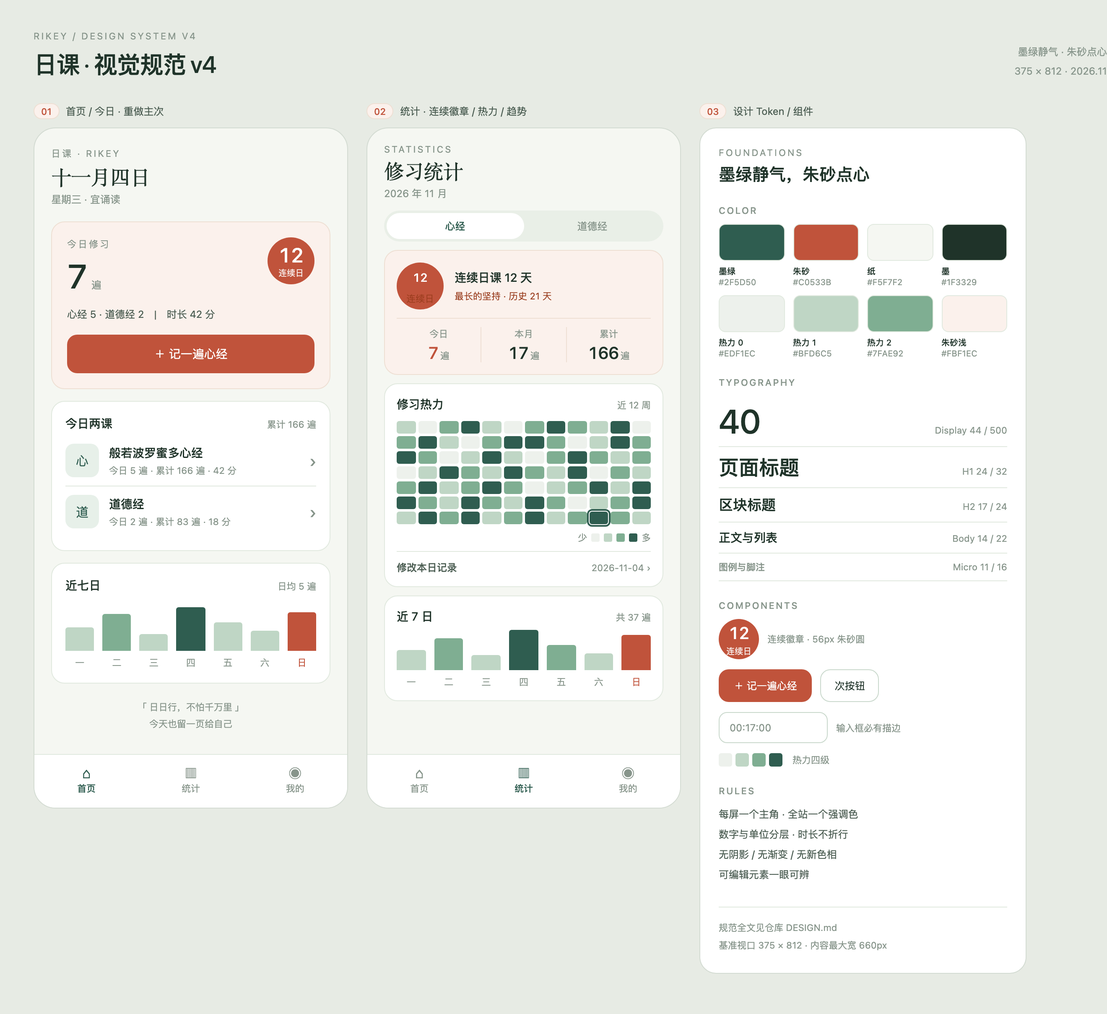
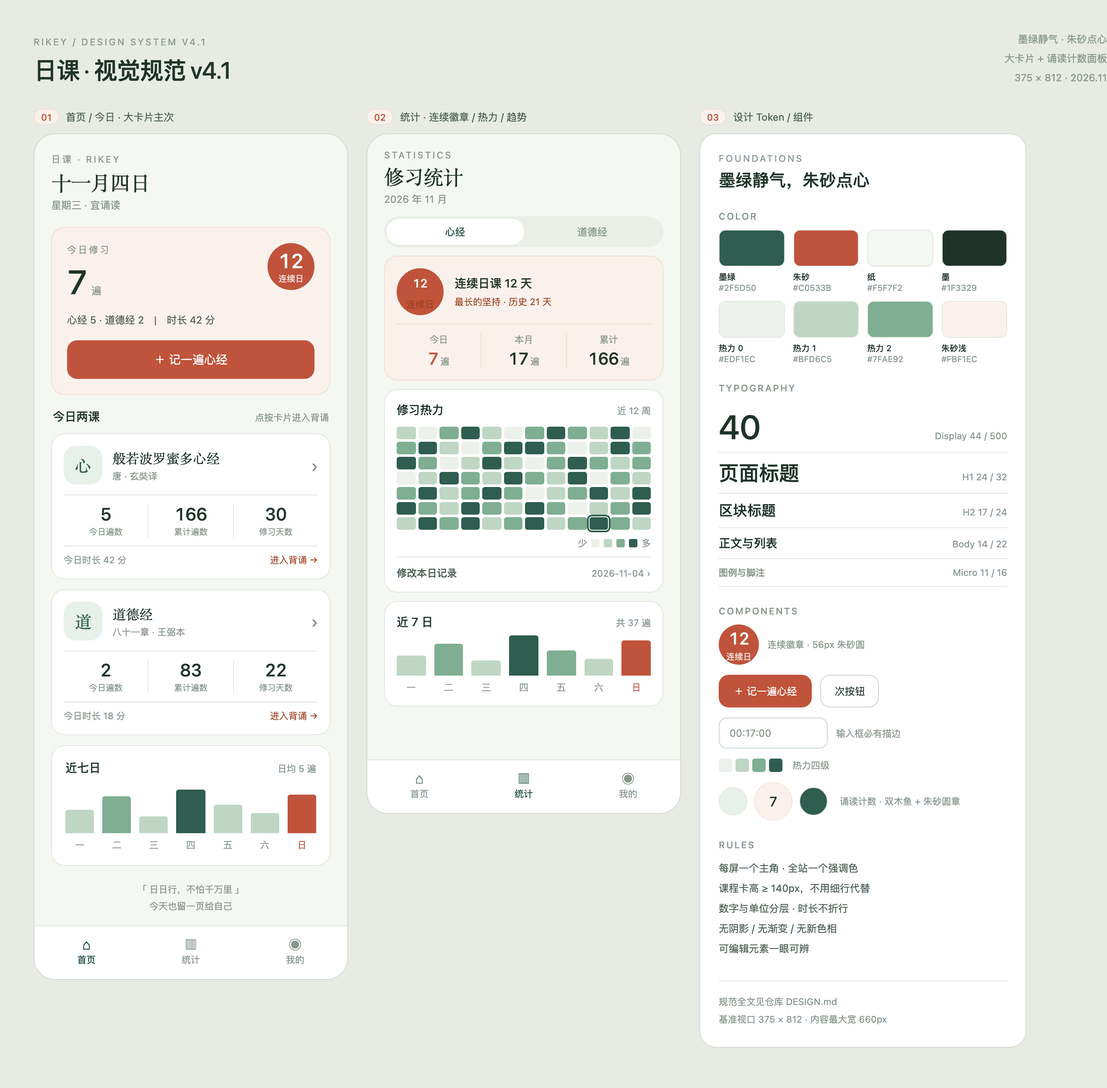
feat(v4.1): 恢复首页/选择页大卡片并重绘开始后的诵读计数面板

diff --git a/styles.css b/styles.css
@@ -587,3 +587,88 @@ button,input,summary { font-family:inherit; }
 @media (prefers-reduced-motion:reduce) {
   .hero-cta,.view,.woodfish { transition:none !important; animation:none !important; }
 }
+
+/* ===== v4.1 · 大卡片 + 诵读计数面板 ===== */
+.section-head { display:flex; align-items:baseline; justify-content:space-between; gap:8px; margin:18px 2px 10px; }
+.section-head h2 { font:500 15px/20px var(--font-classic); margin:0; }
+.section-head span { font-size:11px; color:var(--muted); }
+
+/* 首页两课 / 选择背诵：恢复大卡片 */
+.course-row.course-card { display:block; width:100%; min-height:0; padding:16px; margin:0 0 12px; border:1px solid var(--line); border-radius:16px; background:var(--card); text-align:left; color:var(--ink); cursor:pointer; transition:transform .14s ease-out,border-color .14s ease-out; }
+.course-row.course-card:first-of-type { border-top:1px solid var(--line); padding-top:16px; }
+.course-row.course-card:active { transform:scale(.99); border-color:var(--green); }
+.card-top { display:flex; align-items:center; gap:12px; }
+.course-seal { width:48px; height:48px; flex:none; border-radius:14px; background:var(--green-soft); color:var(--green); font:500 21px/1 var(--font-classic); display:grid; place-items:center; }
+.course-title { flex:1; min-width:0; }
+.course-title b { display:block; font:500 17px/22px var(--font-classic); white-space:nowrap; overflow:hidden; text-overflow:ellipsis; }
+.course-title small { display:block; font-size:11px; color:var(--muted); margin-top:3px; }
+.course-arrow { font-size:22px; color:var(--muted); flex:none; }
+.course-stats { display:flex; margin:14px 0 10px; padding:12px 0; border-top:1px solid var(--line); border-bottom:1px solid var(--line); }
+.course-stats > span { flex:1; min-width:0; text-align:center; border-right:1px solid var(--line); }
+.course-stats > span:last-child { border-right:0; }
+.course-stats b { display:block; font-size:23px; line-height:27px; font-weight:500; color:var(--ink); font-variant-numeric:tabular-nums; }
+.course-stats small { display:block; font-size:10px; color:var(--muted); margin-top:3px; }
+.course-foot { display:flex; justify-content:space-between; align-items:center; font-size:11px; color:var(--muted); }
+.course-foot span:last-child { color:var(--cinnabar-ink); }
+
+.recite-choices { border-top:0; display:grid; gap:12px; }
+.recite-choice { display:flex; align-items:center; gap:12px; width:100%; min-height:104px; padding:16px; border:1px solid var(--line); border-bottom:1px solid var(--line); border-radius:16px; background:var(--card); text-align:left; cursor:pointer; transition:transform .14s ease-out,border-color .14s ease-out; }
+.recite-choice:active { transform:scale(.99); border-color:var(--green); }
+.recite-choice span { font:inherit; }
+.choice-seal { width:56px; height:56px; flex:none; border-radius:16px; background:var(--green-soft); color:var(--green); font:500 24px/1 var(--font-classic); display:grid; place-items:center; }
+.choice-body { flex:1; min-width:0; }
+.choice-body b { display:block; font:500 18px/24px var(--font-classic); color:var(--ink); }
+.choice-body small { display:block; font-size:11px; color:var(--muted); margin-top:4px; }
+.choice-meta { flex:none; text-align:right; }
+.choice-meta b { display:block; font-size:20px; font-weight:500; color:var(--ink); font-variant-numeric:tabular-nums; }
+.choice-meta small { display:block; font-size:10px; color:var(--muted); margin-top:2px; }
+.choice-arrow { font-size:20px; color:var(--muted); }
+.choice-note { text-align:center; font-size:11px; line-height:2; color:var(--muted); margin:26px 0 0; }
+
+/* 开始按钮 */
+.bottom-counter { flex-direction:column; gap:0; min-height:0; }
+.bottom-counter.waiting { padding:10px 0 12px; }
+.start-wrap { position:relative; width:88px; height:88px; display:grid; place-items:center; }
+.start-halo { position:absolute; inset:0; border-radius:50%; background:var(--cinnabar-soft); border:1px solid var(--cinnabar-line); animation:haloPulse 2.8s ease-in-out infinite; }
+.start-circle { position:relative; width:64px; height:64px; border:0; border-radius:50%; color:#fff; background:var(--cinnabar); font-size:15px; cursor:pointer; box-shadow:none; }
+.start-circle:active { transform:scale(.96); }
+.start-hint { font-size:11px; color:var(--muted); margin:10px 0 0; }
+@keyframes haloPulse { 0%,100% { transform:scale(1); opacity:1; } 50% { transform:scale(1.08); opacity:.62; } }
+
+/* 诵读计数面板 */
+.bottom-counter.running { align-items:stretch; padding:8px 0 4px; }
+.counter-head { display:flex; align-items:center; gap:7px; font-size:11px; color:var(--muted); margin-bottom:2px; }
+.live-dot { width:6px; height:6px; flex:none; border-radius:50%; background:var(--cinnabar); box-shadow:0 0 0 3px var(--cinnabar-soft); }
+.counter-hint { margin-left:auto; }
+.counter-stage { display:flex; align-items:center; justify-content:space-between; gap:6px; }
+.woodfish { position:relative; width:92px; height:96px; flex:none; border:0; padding:0; background:transparent; display:grid; place-items:center; cursor:pointer; touch-action:manipulation; }
+.woodfish .fish-disc { position:absolute; inset:2px 2px 12px; width:auto; height:auto; border:0; border-radius:50%; background:var(--green-soft); opacity:.5; }
+.woodfish img { position:relative; width:92px; height:88px; display:block; pointer-events:none; }
+.woodfish .fish-sign { position:absolute; right:0; bottom:12px; width:28px; height:28px; border-radius:50%; display:grid; place-items:center; background:var(--card); border:1px solid var(--line-strong); color:var(--green); font-size:17px; line-height:1; font-weight:400; pointer-events:none; }
+.fish-plus .fish-sign { background:var(--cinnabar); border-color:var(--cinnabar); color:#fff; }
+.woodfish .fish-tag { position:absolute; bottom:-2px; left:0; right:0; width:auto; height:auto; display:block; border:0; border-radius:0; background:transparent; text-align:center; font-size:10px; line-height:1.2; font-weight:400; color:var(--muted); pointer-events:none; }
+.woodfish .fish-pop { position:absolute; top:6px; right:auto; bottom:auto; left:50%; width:auto; height:auto; display:block; border:0; border-radius:0; background:transparent; transform:translateX(-50%); font-size:14px; font-weight:500; color:var(--cinnabar); opacity:0; pointer-events:none; }
+.fish-minus .fish-pop { color:var(--green); }
+.woodfish.is-tapped .fish-pop { animation:fishPop .46s ease-out; }
+.woodfish.is-tapped .fish-disc { animation:fishRipple .46s ease-out; }
+@keyframes fishPop { 0%{opacity:0;transform:translate(-50%,8px) scale(.8)} 35%{opacity:1} 100%{opacity:0;transform:translate(-50%,-16px) scale(1.1)} }
+@keyframes fishRipple { 0%{opacity:.6;transform:scale(.86)} 100%{opacity:.5;transform:scale(1.18)} }
+.count-seal { position:relative; width:92px; height:92px; flex:none; border-radius:50%; background:var(--cinnabar-soft); border:1px solid var(--cinnabar-line); display:flex; flex-direction:column; align-items:center; justify-content:center; }
+.seal-ring { position:absolute; inset:5px; border-radius:50%; border:1px dashed var(--cinnabar-line); }
+.count-seal small { font-size:10px; color:var(--cinnabar-ink); }
+.count-seal b { display:block; font-size:32px; line-height:36px; font-weight:500; color:var(--ink); font-variant-numeric:tabular-nums; }
+.count-seal b.bump { animation:countBump .3s ease-out; }
+.count-seal em { font-size:10px; font-style:normal; color:var(--muted); }
+@keyframes countBump { 0%{transform:scale(1)} 45%{transform:scale(1.18)} 100%{transform:scale(1)} }
+.recite-footer { padding:8px 16px calc(10px + env(safe-area-inset-bottom,0px)); }
+.app-shell.immersive { padding-bottom:170px; }
+
+@media (max-width:360px) {
+  .woodfish { width:80px; }
+  .woodfish img { width:80px; height:78px; }
+  .count-seal { width:84px; height:84px; }
+  .count-seal b { font-size:28px; }
+}
+@media (prefers-reduced-motion:reduce) {
+  .start-halo,.woodfish.is-tapped .fish-pop,.woodfish.is-tapped .fish-disc,.count-seal b.bump { animation:none !important; }
+}

diff --git a/app.js b/app.js
@@ -158,7 +158,12 @@
     const msToday = (Number(today.readingMs?.heart) || 0) + (Number(today.readingMs?.dao) || 0);
     const now = new Date(), weekNames = ['日', '一', '二', '三', '四', '五', '六'];
     const streak = calcStreak('all'), trend = trendBars('all', 7);
-    const course = (name, book, key, mark, count) => `<button class="course-row" data-action="open-recitation" data-book="${book}"><span class="course-mark">${mark}</span><span class="course-info"><b>${name}</b><small>今日 ${count} 遍 · 累计 ${sum(key)} 遍 · ${formatDurationShort(Number(today.readingMs?.[book]) || 0)}</small></span><span class="course-arrow">›</span></button>`;
+    const practicedDays = key => Object.values(state.days).filter(d => Number(d[key]) > 0).length;
+    const course = (name, book, key, mark, count, sub) => `<button class="course-row course-card" data-action="open-recitation" data-book="${book}">
+        <span class="card-top"><span class="course-seal">${mark}</span><span class="course-title"><b>${name}</b><small>${sub}</small></span><span class="course-arrow">›</span></span>
+        <span class="course-stats"><span><b>${count}</b><small>今日遍数</small></span><span><b>${sum(key)}</b><small>累计遍数</small></span><span><b>${practicedDays(key)}</b><small>修习天数</small></span></span>
+        <span class="course-foot"><span>今日时长 ${formatDurationShort(Number(today.readingMs?.[book]) || 0)}</span><span>进入背诵 →</span></span>
+      </button>`;
     document.getElementById('view-today').innerHTML = `<header class="page-head">
         <span class="eyebrow">日课 · RIKEY</span>
         <h1 id="today-title">${now.getMonth() + 1} 月 ${now.getDate()} 日</h1>
@@ -176,11 +181,9 @@
         <button class="hero-cta" data-action="count" data-key="xinCount">＋ 记一遍心经</button>
         <p class="hero-foot">历史最佳 ${calcBest('all')} 天 · 累计 ${sum('xinCount') + sum('daoCount')} 遍</p>
       </section>
-      <section class="ds-card">
-        <div class="card-head"><h2>今日两课</h2><span>点按进入背诵</span></div>
-        ${course('般若波罗蜜多心经', 'heart', 'xinCount', '心', heart)}
-        ${course('道德经', 'dao', 'daoCount', '道', dao)}
-      </section>
+      <div class="section-head"><h2>今日两课</h2><span>点按卡片进入背诵</span></div>
+      ${course('般若波罗蜜多心经', 'heart', 'xinCount', '心', heart, '唐 · 玄奘译')}
+      ${course('道德经', 'dao', 'daoCount', '道', dao, '八十一章 · 王弼本')}
       <section class="ds-card">
         <div class="card-head"><h2>近七日</h2><span>日均 ${trend.avg} 遍 · 共 ${trend.total} 遍</span></div>
         <div class="trend-bars">${trend.bars}</div>
@@ -244,15 +247,30 @@
     if(!on) { document.activeElement?.blur(); showToast('排版已保存'); }
   }
   function reciteFooter(countKey) {
-    if (!timerStart) return `<div class="bottom-counter waiting"><button class="start-circle" data-action="start-timer">开始</button></div>`;
-    return `<div class="bottom-counter running"><button class="woodfish fish-minus" data-action="undo" data-key="${countKey}" aria-label="减少一遍" title="减少一遍"><img src="assets/woodfish-minus.svg?v=9" alt=""></button><div class="center-count"><span>今日</span><b id="recite-today-count">${day()[countKey]}</b><small id="recite-total-count">累计 ${sum(countKey)}</small></div><button class="woodfish fish-plus" data-action="count" data-key="${countKey}" aria-label="增加一遍" title="增加一遍"><img src="assets/woodfish-plus.svg?v=9" alt=""></button></div>`;
+    if (!timerStart) return `<div class="bottom-counter waiting">
+        <div class="start-wrap"><span class="start-halo"></span><button class="start-circle" data-action="start-timer">开始</button></div>
+        <p class="start-hint">开始诵读 · 自动计时，点木鱼记一遍</p>
+      </div>`;
+    const fish = (cls, action, label, sign, pop, file, aria) => `<button class="woodfish ${cls}" data-action="${action}" data-key="${countKey}" aria-label="${aria}" title="${aria}">
+        <span class="fish-disc"></span><img src="assets/${file}?v=10" alt="">
+        <span class="fish-sign">${sign}</span><span class="fish-tag">${label}</span><span class="fish-pop">${pop}</span>
+      </button>`;
+    return `<div class="bottom-counter running">
+        <div class="counter-head"><i class="live-dot"></i><span>诵读中</span><span class="counter-hint">轻点木鱼记一遍</span></div>
+        <div class="counter-stage">
+          ${fish('fish-minus','undo','撤销','−','−1','woodfish-minus.svg','减少一遍')}
+          <div class="count-seal"><span class="seal-ring"></span><small>今日</small><b id="recite-today-count">${day()[countKey]}</b><em id="recite-total-count">累计 ${sum(countKey)}</em></div>
+          ${fish('fish-plus','count','记一遍','＋','＋1','woodfish-plus.svg','增加一遍')}
+        </div>
+      </div>`;
   }
   function renderRecite() {
     const node=document.getElementById('view-recite');
     const shell=document.querySelector('.app-shell');
     if (!reciteBook) {
       shell.classList.remove('immersive');
-      node.innerHTML=`<div class="page-intro"><h1 id="recite-title">选择背诵内容</h1></div><div class="recite-choices"><button class="recite-choice" data-action="open-recitation" data-book="dao"><span>《道德经》</span><small>累计 ${sum('daoCount')} 遍　→</small></button><button class="recite-choice" data-action="open-recitation" data-book="heart"><span>《心经》</span><small>累计 ${sum('xinCount')} 遍　→</small></button></div>`;
+      const choice = (book, name, seal, sub, key) => `<button class="recite-choice" data-action="open-recitation" data-book="${book}"><span class="choice-seal">${seal}</span><span class="choice-body"><b>${name}</b><small>${sub}</small></span><span class="choice-meta"><b>${sum(key)}</b><small>累计遍数</small></span><span class="choice-arrow">›</span></button>`;
+      node.innerHTML=`<div class="page-intro"><h1 id="recite-title">选择背诵内容</h1></div><div class="recite-choices">${choice('dao','《道德经》','道','八十一章 · 王弼本','daoCount')}${choice('heart','《心经》','心','唐 · 玄奘译','xinCount')}</div><p class="choice-note">诵读时自动计时 · 点木鱼记一遍<br>记录只保存在这台设备</p>`;
       return;
     }
     shell.classList.add('immersive');
@@ -280,7 +298,7 @@
   function updateReciteProgress(key) {
     const todayCount=document.getElementById('recite-today-count');
     const total=document.getElementById('recite-total-count');
-    if(todayCount) todayCount.textContent=String(day()[key]);
+    if(todayCount) { todayCount.textContent=String(day()[key]); todayCount.classList.remove('bump'); void todayCount.offsetWidth; todayCount.classList.add('bump'); }
     if(total) total.textContent=`累计 ${sum(key)}`;
   }
   function lastDays(n) {
@@ -380,6 +398,10 @@
     if (routeButton) { routeTo(routeButton.dataset.route); return; }
     const button=event.target.closest('[data-action]'); if (!button) return;
     const action=button.dataset.action;
+    if (action === 'count' || action === 'undo') {
+      const fish=button.closest('.woodfish');
+      if (fish) { fish.classList.remove('is-tapped'); void fish.offsetWidth; fish.classList.add('is-tapped'); setTimeout(()=>fish.classList.remove('is-tapped'),700); }
+    }
     if (action === 'stats-book') { statsBook=button.dataset.book; renderStats(); return; }
     if (action === 'stats-day') { statsSelectedDate=button.dataset.date; renderStats(); return; }
     if (action === 'stats-prev-month' || action === 'stats-next-month') {

diff --git a/design/preview.html b/design/preview.html
@@ -52,6 +52,25 @@
   .week{display:flex;gap:10px;margin-top:6px}
   .week span{flex:1;text-align:center;font-size:11px;color:var(--muted)}
   .verse{text-align:center;font-size:11px;color:var(--muted);line-height:20px;margin-top:18px}
+  /* v4.1 首页大卡片 */
+  .home{height:1010px}
+  .home .screen{padding-bottom:24px}
+  .section-label{display:flex;align-items:baseline;justify-content:space-between;margin:16px 2px 10px;font-size:14px;font-weight:500}
+  .section-label em{font-style:normal;font-size:11px;font-weight:400;color:var(--muted)}
+  .bigcard{background:var(--card);border:1px solid var(--line);border-radius:16px;padding:14px;margin-bottom:12px}
+  .bigcard-top{display:flex;align-items:center;gap:12px}
+  .bigseal{width:46px;height:46px;border-radius:14px;background:var(--green-soft);color:var(--green);font-size:20px;font-family:"Songti SC",serif;display:grid;place-items:center;flex:none}
+  .bigtitle{flex:1;min-width:0}
+  .bigtitle b{display:block;font-size:16px;font-weight:500;font-family:"Songti SC",serif;white-space:nowrap;overflow:hidden;text-overflow:ellipsis}
+  .bigtitle span{display:block;font-size:11px;color:var(--muted);margin-top:3px}
+  .bigcard-top .arrow{font-size:20px;color:var(--muted)}
+  .bigstats{display:flex;margin:12px 0 8px;padding:10px 0;border-top:1px solid var(--line);border-bottom:1px solid var(--line)}
+  .bigstats div{flex:1;text-align:center;border-right:1px solid var(--line)}
+  .bigstats div:last-child{border-right:0}
+  .bigstats b{display:block;font-size:21px;font-weight:500;font-variant-numeric:tabular-nums}
+  .bigstats span{display:block;font-size:10px;color:var(--muted);margin-top:2px}
+  .bigfoot{display:flex;justify-content:space-between;font-size:11px;color:var(--muted)}
+  .bigfoot em{font-style:normal;color:var(--cinnabar-ink)}
   .nav{position:absolute;left:0;right:0;bottom:0;height:64px;background:var(--card);border-top:1px solid var(--line);display:flex}
   .nav div{flex:1;text-align:center;font-size:11px;color:var(--muted);padding-top:12px}
   .nav div.on{color:var(--green);font-weight:500}
@@ -113,15 +132,15 @@
 <body>
 <div class="canvas">
   <div class="masthead">
-    <div><div class="eyebrow">Rikey / Design system v4</div><h1>日课 · 视觉规范 v4</h1></div>
-    <div class="meta">墨绿静气 · 朱砂点心<br>375 × 812 · 2026.11</div>
+    <div><div class="eyebrow">Rikey / Design system v4.1</div><h1>日课 · 视觉规范 v4.1</h1></div>
+    <div class="meta">墨绿静气 · 朱砂点心<br>大卡片 + 诵读计数面板<br>375 × 812 · 2026.11</div>
   </div>
 
   <div class="board">
     <!-- 01 首页 -->
     <div class="col">
-      <div class="col-label"><b>01</b> 首页 / 今日 · 重做主次</div>
-      <div class="phone">
+      <div class="col-label"><b>01</b> 首页 / 今日 · 大卡片主次</div>
+      <div class="phone home">
         <div class="screen">
           <div class="page-head"><div class="eyebrow">日课 · RIKEY</div><h2>十一月四日</h2><div class="date">星期三 · 宜诵读</div></div>
 
@@ -133,10 +152,16 @@
             <div class="cta">＋ 记一遍心经</div>
           </div>
 
-          <div class="card">
-            <h3>今日两课<em>累计 166 遍</em></h3>
-            <div class="row"><div class="mark">心</div><div class="info"><b>般若波罗蜜多心经</b><span>今日 5 遍 · 累计 166 遍 · 42 分</span></div><div class="arrow">›</div></div>
-            <div class="row"><div class="mark">道</div><div class="info"><b>道德经</b><span>今日 2 遍 · 累计 83 遍 · 18 分</span></div><div class="arrow">›</div></div>
+          <div class="section-label">今日两课<em>点按卡片进入背诵</em></div>
+          <div class="bigcard">
+            <div class="bigcard-top"><div class="bigseal">心</div><div class="bigtitle"><b>般若波罗蜜多心经</b><span>唐 · 玄奘译</span></div><div class="arrow">›</div></div>
+            <div class="bigstats"><div><b>5</b><span>今日遍数</span></div><div><b>166</b><span>累计遍数</span></div><div><b>30</b><span>修习天数</span></div></div>
+            <div class="bigfoot"><span>今日时长 42 分</span><em>进入背诵 →</em></div>
+          </div>
+          <div class="bigcard">
+            <div class="bigcard-top"><div class="bigseal">道</div><div class="bigtitle"><b>道德经</b><span>八十一章 · 王弼本</span></div><div class="arrow">›</div></div>
+            <div class="bigstats"><div><b>2</b><span>今日遍数</span></div><div><b>83</b><span>累计遍数</span></div><div><b>22</b><span>修习天数</span></div></div>
+            <div class="bigfoot"><span>今日时长 18 分</span><em>进入背诵 →</em></div>
           </div>
 
           <div class="card">
@@ -226,8 +251,14 @@
         <div class="comp"><div class="btn-main">＋ 记一遍心经</div><div class="btn-ghost">次按钮</div></div>
         <div class="comp"><div class="input">00:17:00</div><span style="font-size:11px;color:var(--muted)">输入框必有描边</span></div>
         <div class="comp" style="gap:4px"><i style="width:16px;height:16px;border-radius:3px;background:var(--heat-0)"></i><i style="width:16px;height:16px;border-radius:3px;background:var(--heat-1)"></i><i style="width:16px;height:16px;border-radius:3px;background:var(--heat-2)"></i><i style="width:16px;height:16px;border-radius:3px;background:var(--heat-3)"></i><span style="font-size:11px;color:var(--muted);margin-left:8px">热力四级</span></div>
+        <div class="comp" style="gap:8px">
+          <i style="width:34px;height:34px;border-radius:50%;background:var(--green-soft);border:1px solid var(--line)"></i>
+          <i style="width:46px;height:46px;border-radius:50%;background:var(--cinnabar-soft);border:1px dashed var(--cinnabar-line);display:grid;place-items:center;font-style:normal;font-size:16px;font-weight:500;color:var(--ink)">7</i>
+          <i style="width:34px;height:34px;border-radius:50%;background:var(--green);border:1px solid var(--line)"></i>
+          <span style="font-size:11px;color:var(--muted);margin-left:6px">诵读计数 · 双木鱼 + 朱砂圆章</span>
+        </div>
         <h4>Rules</h4>
-        <div style="font-size:12px;line-height:2;color:var(--ink-2)">每屏一个主角 · 全站一个强调色<br>数字与单位分层 · 时长不折行<br>无阴影 / 无渐变 / 无新色相<br>可编辑元素一眼可辨</div>
+        <div style="font-size:12px;line-height:2;color:var(--ink-2)">每屏一个主角 · 全站一个强调色<br>课程卡高 ≥ 140px，不用细行代替<br>数字与单位分层 · 时长不折行<br>无阴影 / 无渐变 / 无新色相<br>可编辑元素一眼可辨</div>
         <div class="foot">规范全文见仓库 DESIGN.md<br>基准视口 375 × 812 · 内容最大宽 660px</div>
       </div>
     </div>

diff --git a/index.html b/index.html
@@ -8,7 +8,7 @@
   <link rel="manifest" href="manifest.webmanifest">
   <link rel="icon" href="icon.svg" type="image/svg+xml">
   <title>日课 · 读诵与日常</title>
-  <link rel="stylesheet" href="styles.css?v=19">
+  <link rel="stylesheet" href="styles.css?v=20">
 </head>
 <body>
   <div class="app-shell">
@@ -46,7 +46,7 @@
   </dialog>
 
   <div id="toast" class="toast" role="status" aria-live="polite"></div>
-  <script src="data/dao-de-jing.js?v=19"></script>
-  <script src="app.js?v=19"></script>
+  <script src="data/dao-de-jing.js?v=20"></script>
+  <script src="app.js?v=20"></script>
 </body>
 </html>

diff --git a/service-worker.js b/service-worker.js
@@ -1,7 +1,7 @@
-const CACHE_NAME = 'rikey-static-v19';
+const CACHE_NAME = 'rikey-static-v20';
 const APP_FILES = [
-  './', './index.html', './styles.css?v=19', './app.js?v=19', './data/dao-de-jing.js?v=19',
-  './manifest.webmanifest', './icon.svg', './assets/woodfish-minus.svg?v=9', './assets/woodfish-plus.svg?v=9'
+  './', './index.html', './styles.css?v=20', './app.js?v=20', './data/dao-de-jing.js?v=20',
+  './manifest.webmanifest', './icon.svg', './assets/woodfish-minus.svg?v=10', './assets/woodfish-plus.svg?v=10'
 ];
 
 self.addEventListener('install', event => {

diff --git a/DESIGN.md b/DESIGN.md
@@ -115,7 +115,7 @@
 | 主按钮 | `.button.primary` / `.hero-cta` | 朱砂实底白字，高 48，圆角 12，宽 100%（首页 CTA） |
 | 次按钮 | `.button.secondary` | 白底 + `--line-strong` 描边 + `--ink` 字，高 40 |
 | 分段控件 | `.segmented` | 胶囊底 `--paper-deep`，选中项白底墨绿字；统计页与阅读页共用同一实现 |
-| 课程行 | `.course-row` | 40px 方形序号块 + 两行文字 + `›`；高 64，底部 1px 分隔线 |
+| 课程大卡 | `.course-card` | 独立白卡，圆角 16、内边距 16、高 ≥ 140；48px 印章 + 宋体书名 + 三格大数字（今日 / 累计 / 修习天数）+ 底部时长与「进入背诵」；不用细行替代 |
 | 指标格 | `.metric` | 标签 11px + 数字 20px + 单位 11px；三等分，中间竖线分隔 |
 | 热力格 | `.heat-cell` | 12 列 × 7 行，格 20px、gap 4px、圆角 3；`data-level=0..3` 对应 4 级色；选中态 2px 墨绿描边；未来日期禁用 |
 | 图例 | `.heat-legend` | 「少」+ 4 色块 +「多」，全部 11px |
@@ -125,7 +125,9 @@
 | 卡片 | `.ds-card` | 白底 + 1px `--line` + 16 圆角 + 20 内边距；统计页所有区块统一用它 |
 | 底部导航 | `.bottom-nav` | 固定，白底，顶部 1px `--line`，3 等分，高 64 + 安全区；选中项墨绿，未选 `--muted` |
 | 阅读面板 | `.reading-panel` | 无卡片边框，顶部 1px 线；经文宋体 17/32；注释 details 折行缩进 |
-| 木鱼 | `.woodfish` | 朱砂圆环，直径 96，中心计数 28px；背诵页唯一强调 |
+| 选择背诵大卡 | `.recite-choice` | 同课程大卡语汇：56px 印章 + 书名 + 累计遍数，高 ≥ 100，两卡纵排 |
+| 诵读计数面板 | `.bottom-counter.running` | 顶部「诵读中」状态行；三列：淡木鱼（撤销）/ 92px 朱砂圆章（今日大数字 + 累计）/ 深墨绿木鱼（记一遍）；加减圆章朱砂仅给主操作；点按有 ＋1 浮字与涟漪 |
+| 开始按钮 | `.start-wrap` / `.start-circle` | 88px 朱砂浅光环 + 64px 朱砂实心圆 + 下方 11px 功能说明 |
 | Toast | `.toast` | 墨绿底白字，圆角 10，底部导航上方 16px |
 
 ---
@@ -140,14 +142,14 @@
   ├ 今日 N 遍（display 40）+ 两课分项 caption
   ├ .streak-seal  连续 N 日 / 历史最佳
   └ .hero-cta     ＋ 记一遍心经（一键打卡，直接改 xinCount）
-.ds-card「今日两课」
-  ├ .course-row 心经：今日 / 累计 / 今日时长 → 打开背诵
-  └ .course-row 道德经：同上
+.section-head「今日两课」
+  ├ .course-card 心经：印章 + 书名 + 三格大数字 + 时长 → 打开背诵
+  └ .course-card 道德经：同上
 .ds-card「近七日」    7 柱趋势，当天朱砂
 .daily-verse       一句经文，11px，居中，收尾留白
 ```
 
-理由：原首页两张等权白卡 + 下半屏空白，用户看不到「今天要做什么」。改为「一个主数字 + 一个动作 + 两条入口 + 一周反馈」，844px 屏幕填满且只有一个焦点。
+理由：原首页两张等权白卡 + 下半屏空白，用户看不到「今天要做什么」。改为「一个主数字 + 一个动作 + 两张大卡入口 + 一周反馈」，只有一个焦点。两课必须保持大卡片（≥140px），压成细行会让用户找不到入口；内容自然向下滚动，不靠压缩卡片塞满首屏。
 
 ### 5.2 统计页
 
@@ -166,14 +168,16 @@
 ### 5.3 阅读 / 背诵 / 我的
 
 - 三者统一 `.page-head` 标题区与 `.button` 规格；阅读页两套 tab 统一为 `.segmented`。
-- 背诵页沉浸态隐藏导航不变，木鱼与计时器沿用新 token；经文宋体不变。
+- 背诵页沉浸态隐藏导航不变；经文宋体不变。
+- 「开始」后是诵读计数面板：两个重绘木鱼（淡=撤销、深墨绿=记一遍，朱砂木槌点睛）夹一个朱砂圆章，加减圆章只有主操作是朱砂实心；点按触发 ＋1 浮字、涟漪与数字弹跳，动画 ≤ 0.7s 且遵循 reduced-motion。
+- 「选择背诵内容」页两张大卡与首页课程卡同语汇，下方一句功能说明。
 - 「我的」页把「数据备份」从裸按钮升级为 `.ds-card` 列表行 + 说明文字，设置弹窗沿用 `.button.secondary`。
 
 ---
 
 ## 6. 实现约定
 
-1. `styles.css` 末尾的「v4 视觉系统」是最终覆盖层，任何新样式写在这里，禁止再往历史层追加。
+1. `styles.css` 末尾的「v4 视觉系统 / v4.1 大卡片与计数面板」是最终覆盖层，任何新样式写在这里，禁止再往历史层追加。历史层 `.woodfish span` 会把新辅助标签染成旧版圆形徽章，新规则必须写成 `.woodfish .fish-*` 才有足够优先级。
 2. 新页面结构写在 `app.js` 的模板字符串里；`index.html` 只保留壳。
 3. 视觉改版必须同步 bump：`index.html` 的 3 处 `?v=`、`service-worker.js` 的 `CACHE_NAME` 与 `APP_FILES`，否则老用户被 SW 缓存住旧样式。
 4. `meta theme-color` / `manifest.webmanifest` 的 `theme_color` / `background_color` 与 `--paper` 保持一致。
@@ -190,3 +194,6 @@
 - [ ] 阅读 / 背诵 / 我的页面标题、按钮、tab 与首页同一套规格
 - [ ] 全站只有一个强调色，无阴影、无渐变、无新增色相
 - [ ] 375px 窄屏无横向滚动
+- [ ] 首页两课与选择背诵页均为 ≥140px / ≥100px 的独立大卡，不是细行
+- [ ] 点「开始」后计数面板：双木鱼 + 朱砂圆章 + 加减圆章齐全，标签不折行、不被裁切
+- [ ] 点木鱼数字 +1 并有浮字 / 涟漪反馈，撤销可回退，计时器不被重建

diff --git a/README.md b/README.md
@@ -22,17 +22,18 @@
 
 《心经》采用维基文库收录的[玄奘译本](https://zh.wikisource.org/zh-hans/般若波罗蜜多心经_(玄奘))，导读为本工具整理。经文断句、个别用字可能因版本不同而略有差异。
 
-## 视觉规范 v4（2026-11-04）
+## 视觉规范 v4.1（2026-11-04）
 
 按方案 2 做了全套视觉重做，覆盖首页、统计、阅读、背诵、我的全部页面：
 
 - [DESIGN.md](DESIGN.md)：色彩 / 字号 / 间距 / 圆角 / 组件的唯一规范。
 - [design/preview.html](design/preview.html)：可直接在浏览器打开的高保真设计稿（首页 + 统计页 + 规范板），也是同步到 Pixso 的源文件。
-- 首页重做主次：今日修习为唯一主卡（大数字 + 连续天数朱砂徽章 + 一键记一遍），两课降为列表，补近七日趋势，填满下半屏。
+- 首页重做主次：今日修习为唯一主卡（大数字 + 连续天数朱砂徽章 + 一键记一遍），两课保持两张独立大卡（≥140px，印章 + 三格大数字），补近七日趋势。
+- v4.1：恢复大卡片观感（首页两课 + 选择背诵页），重绘「开始」之后的诵读计数面板——双木鱼（淡=撤销 / 深墨绿=记一遍）、朱砂圆形计数印章、加减圆章、点按浮字与涟漪；开始按钮加朱砂光环与功能说明。
 - 统计页：连续天数扶正为主角、月历换成 12 周分级热力格、补近 7 日趋势、编辑区收进热力卡内默认折叠。
 - 全站只保留墨绿 `#2F5D50` 与唯一强调色朱砂 `#C0533B`；无阴影、无渐变。
 
-改样式时请先看 DESIGN.md；`styles.css` 末尾的「v4 视觉系统」是最终覆盖层，视觉改动写在这里，不要往历史层追加。改完必须同步 bump `index.html` 的 `?v=` 与 `service-worker.js` 的版本号，否则离线缓存不会更新。
+改样式时请先看 DESIGN.md；`styles.css` 末尾的「v4 视觉系统 / v4.1 大卡片与计数面板」是最终覆盖层，视觉改动写在这里，不要往历史层追加。改完必须同步 bump `index.html` 的 `?v=` 与 `service-worker.js` 的版本号，否则离线缓存不会更新。
 
 ## 发布
 
